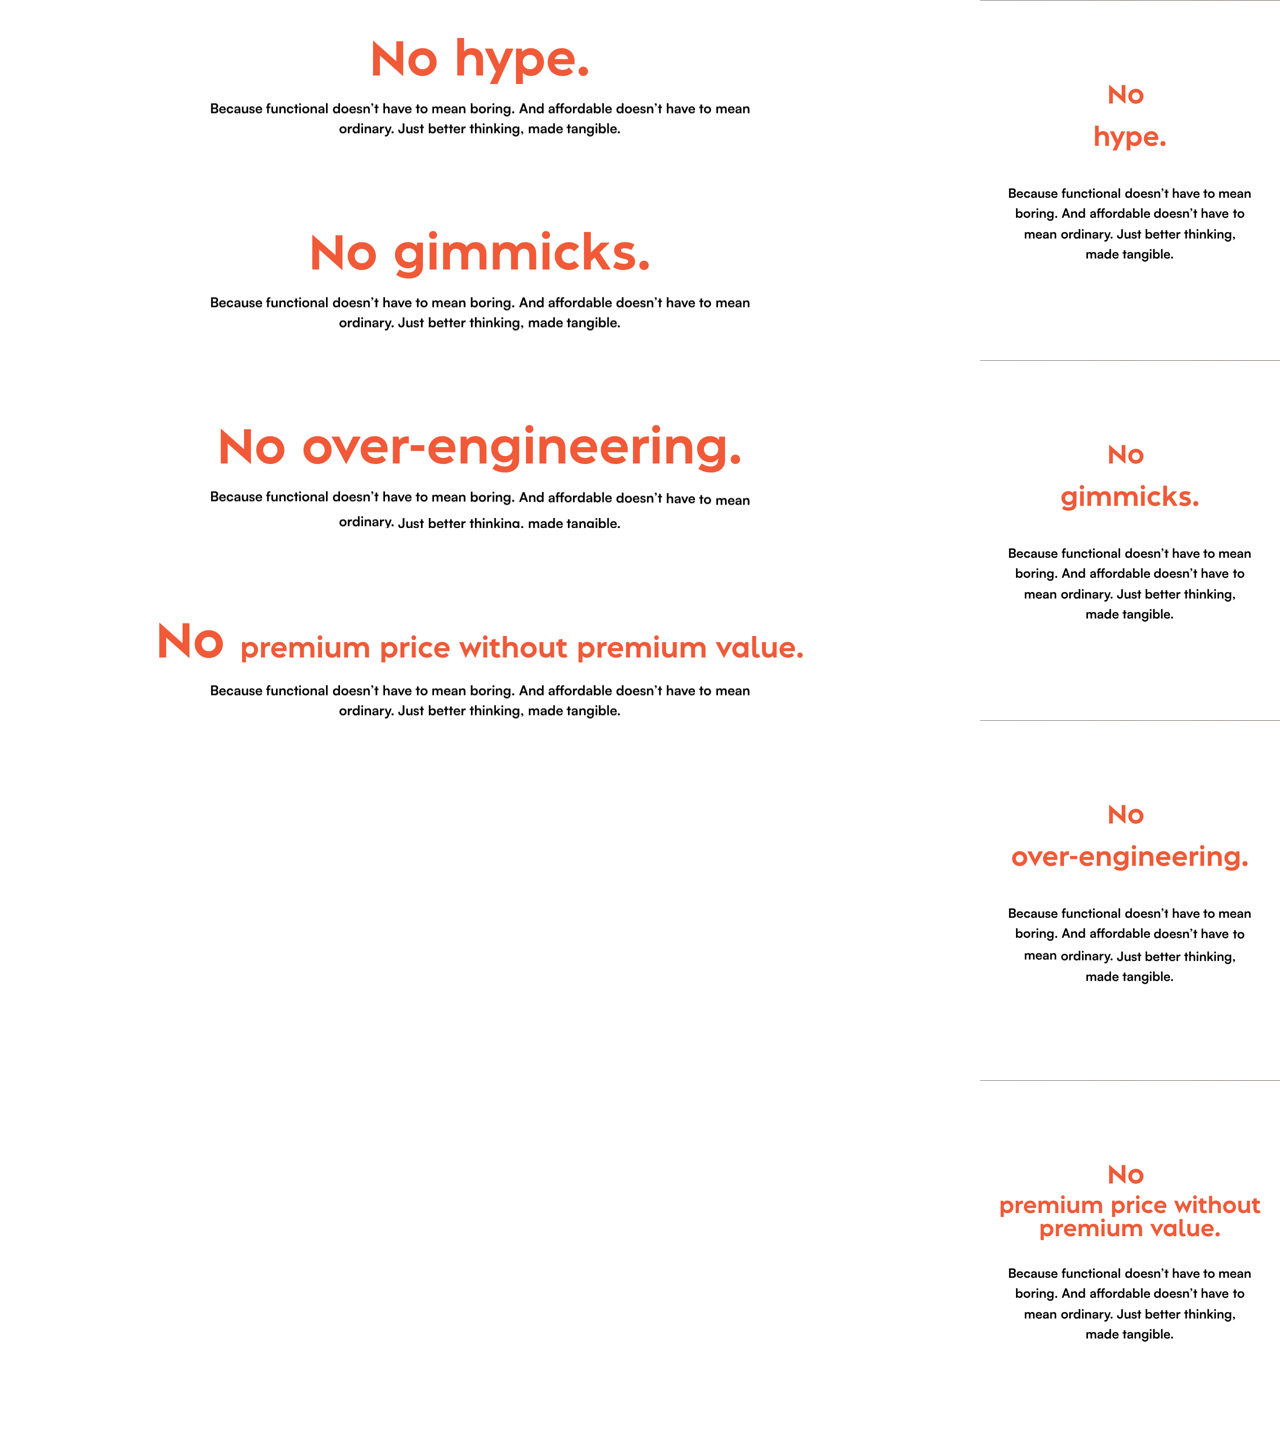
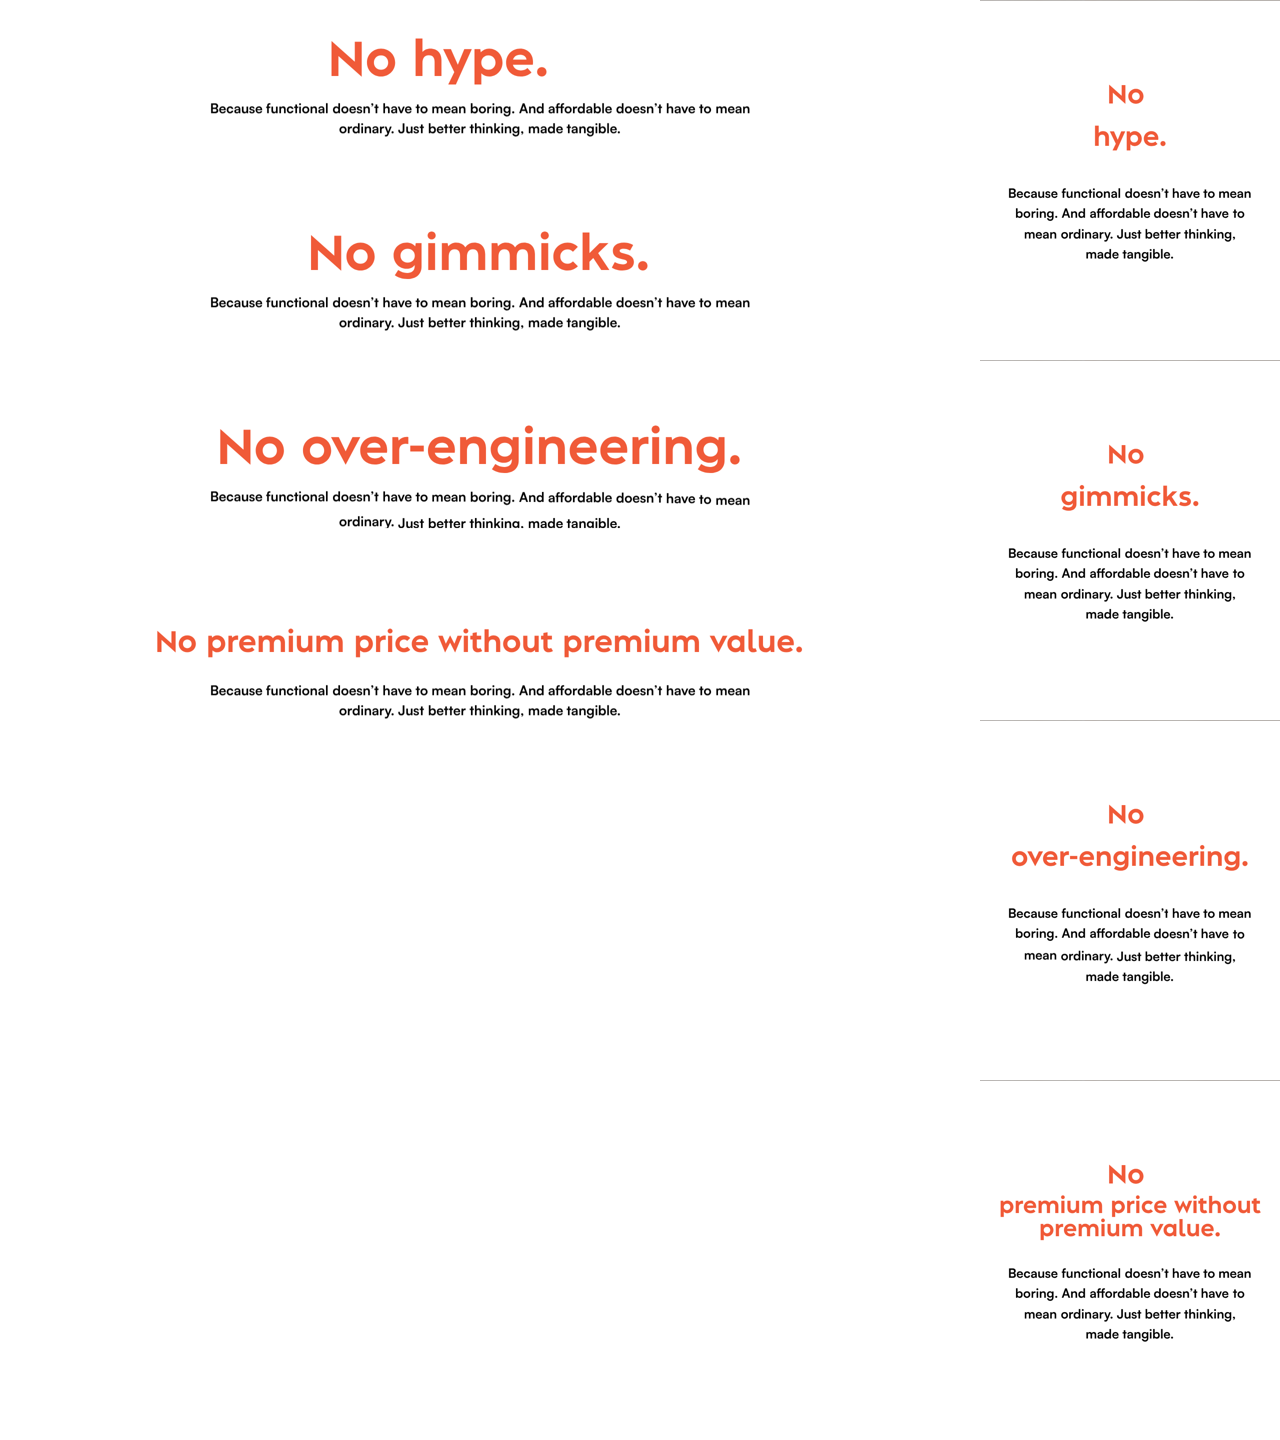
Rotating heading: No and phrase always the same size; the whole line scales smoothly for the long phrase
Claude-Session: https://claude.ai/code/session_011C48dJNBYDtDBuq3rLm7W8

diff --git a/kress-kleen-polish/kk-polish.js b/kress-kleen-polish/kk-polish.js
@@ -159,13 +159,32 @@
         var i = 2;   // start on "over-engineering"
         // each phrase gets the width it needs; a phrase too long for the line is shrunk to fit
         var narrow = window.matchMedia('(max-width: 767px)');
+        var base = 0;
+        // desktop/tablet: "No" and the phrase are always the same size; a phrase too long for the line
+        // scales the whole line down (smoothly), the line height stays fixed so nothing below moves
+        function apply(n) {
+            var it = items[n];
+            if (narrow.matches || !base) { h.style.removeProperty('font-size'); rot.style.width = ''; return; }
+            h.style.setProperty('font-size', (base * it.__k).toFixed(2) + 'px', 'important');
+            rot.style.width = (it.__em * 1.03).toFixed(4) + 'em';
+        }
+        // once the size change has finished, fit the box to the phrase's real width
+        function settle() {
+            if (narrow.matches || !base) { return; }
+            var t = items[i].__t;
+            rot.style.width = Math.ceil(t.getBoundingClientRect().width + 2) + 'px';
+        }
+        h.addEventListener('transitionend', function (e) { if (e.target === h && e.propertyName === 'font-size') { settle(); } });
         function fit() {
+            h.style.removeProperty('font-size');
+            h.style.removeProperty('height');
+            h.style.removeProperty('line-height');
+            items.forEach(function (it) { it.__t.style.fontSize = ''; });
             if (narrow.matches) {   // phones: stacked; a phrase that needs more than two lines is shrunk a little
+                base = 0;
                 rot.style.width = '';
                 items.forEach(function (it) {
-                    it.__w = 0;
                     var k = 100;
-                    it.__t.style.fontSize = '';
                     while (it.__t.offsetHeight > it.clientHeight + 1 && k > 55) {
                         k -= 5;
                         it.__t.style.fontSize = k + '%';
@@ -173,15 +192,16 @@
                 });
                 return;
             }
-            var avail = h.clientWidth - no.offsetWidth - 4;
+            base = parseFloat(getComputedStyle(h).fontSize) || 0;
+            var noW = no.offsetWidth, room = h.clientWidth - 4;
             items.forEach(function (it) {
-                it.__t.style.fontSize = '';
                 var w = it.__t.offsetWidth;
-                var k = w > avail ? avail / w : 1;
-                it.__t.style.fontSize = k < 1 ? (k * 100).toFixed(2) + '%' : '';
-                it.__w = Math.ceil(Math.min(w, avail));
+                it.__em = w / base;
+                it.__k = Math.min(1, room / (noW + w));
             });
-            rot.style.width = items[i].__w ? items[i].__w + 'px' : '';
+            h.style.setProperty('height', (base * 1.15).toFixed(1) + 'px', 'important');
+            h.style.setProperty('line-height', (base * 1.15).toFixed(1) + 'px', 'important');
+            apply(i);
         }
         function show(n, first) {
             items.forEach(function (it, k) {
@@ -190,7 +210,8 @@
                 if (k !== n && k !== i) { it.classList.remove('is-leaving'); }
             });
             i = n;
-            rot.style.width = items[n].__w ? items[n].__w + 'px' : '';
+            apply(n);
+            setTimeout(settle, 760);
         }
         fit();
         show(i, true);

diff --git a/kress-kleen-polish/kk-polish.css b/kress-kleen-polish/kk-polish.css
@@ -1159,3 +1159,12 @@ body .elementor-153 .elementor-element.elementor-element-fb87731 .elementor-head
 }
 .kp-rot__txt { display: inline-block; white-space: inherit; }
 @media (max-width: 767px) { .kp-rot__txt { display: block; } }
+
+/* rotating heading: "No" and the phrase scale together, vertically centred in a fixed-height line */
+@media (min-width: 768px) {
+  body .elementor-153 .elementor-element.elementor-element-fb87731 .elementor-heading-title.kp-rot-ready { transition: font-size 0.7s cubic-bezier(0.65, 0, 0.35, 1); overflow: visible; }
+  .kp-rot-ready .kp-no, .kp-rot-ready .kp-rot { vertical-align: middle; }
+}
+@media (prefers-reduced-motion: reduce) {
+  body .elementor-153 .elementor-element.elementor-element-fb87731 .elementor-heading-title.kp-rot-ready { transition: none; }
+}

diff --git a/kress-kleen-polish/kk-polish-snippet.php b/kress-kleen-polish/kk-polish-snippet.php
@@ -1182,6 +1182,15 @@ body .elementor-153 .elementor-element.elementor-element-fb87731 .elementor-head
 }
 .kp-rot__txt { display: inline-block; white-space: inherit; }
 @media (max-width: 767px) { .kp-rot__txt { display: block; } }
+
+/* rotating heading: "No" and the phrase scale together, vertically centred in a fixed-height line */
+@media (min-width: 768px) {
+  body .elementor-153 .elementor-element.elementor-element-fb87731 .elementor-heading-title.kp-rot-ready { transition: font-size 0.7s cubic-bezier(0.65, 0, 0.35, 1); overflow: visible; }
+  .kp-rot-ready .kp-no, .kp-rot-ready .kp-rot { vertical-align: middle; }
+}
+@media (prefers-reduced-motion: reduce) {
+  body .elementor-153 .elementor-element.elementor-element-fb87731 .elementor-heading-title.kp-rot-ready { transition: none; }
+}
 </style>
     <?php
 }
@@ -1354,13 +1363,32 @@ function kk_polish_js() {
         var i = 2;   // start on "over-engineering"
         // each phrase gets the width it needs; a phrase too long for the line is shrunk to fit
         var narrow = window.matchMedia('(max-width: 767px)');
+        var base = 0;
+        // desktop/tablet: "No" and the phrase are always the same size; a phrase too long for the line
+        // scales the whole line down (smoothly), the line height stays fixed so nothing below moves
+        function apply(n) {
+            var it = items[n];
+            if (narrow.matches || !base) { h.style.removeProperty('font-size'); rot.style.width = ''; return; }
+            h.style.setProperty('font-size', (base * it.__k).toFixed(2) + 'px', 'important');
+            rot.style.width = (it.__em * 1.03).toFixed(4) + 'em';
+        }
+        // once the size change has finished, fit the box to the phrase's real width
+        function settle() {
+            if (narrow.matches || !base) { return; }
+            var t = items[i].__t;
+            rot.style.width = Math.ceil(t.getBoundingClientRect().width + 2) + 'px';
+        }
+        h.addEventListener('transitionend', function (e) { if (e.target === h && e.propertyName === 'font-size') { settle(); } });
         function fit() {
+            h.style.removeProperty('font-size');
+            h.style.removeProperty('height');
+            h.style.removeProperty('line-height');
+            items.forEach(function (it) { it.__t.style.fontSize = ''; });
             if (narrow.matches) {   // phones: stacked; a phrase that needs more than two lines is shrunk a little
+                base = 0;
                 rot.style.width = '';
                 items.forEach(function (it) {
-                    it.__w = 0;
                     var k = 100;
-                    it.__t.style.fontSize = '';
                     while (it.__t.offsetHeight > it.clientHeight + 1 && k > 55) {
                         k -= 5;
                         it.__t.style.fontSize = k + '%';
@@ -1368,15 +1396,16 @@ function kk_polish_js() {
                 });
                 return;
             }
-            var avail = h.clientWidth - no.offsetWidth - 4;
+            base = parseFloat(getComputedStyle(h).fontSize) || 0;
+            var noW = no.offsetWidth, room = h.clientWidth - 4;
             items.forEach(function (it) {
-                it.__t.style.fontSize = '';
                 var w = it.__t.offsetWidth;
-                var k = w > avail ? avail / w : 1;
-                it.__t.style.fontSize = k < 1 ? (k * 100).toFixed(2) + '%' : '';
-                it.__w = Math.ceil(Math.min(w, avail));
+                it.__em = w / base;
+                it.__k = Math.min(1, room / (noW + w));
             });
-            rot.style.width = items[i].__w ? items[i].__w + 'px' : '';
+            h.style.setProperty('height', (base * 1.15).toFixed(1) + 'px', 'important');
+            h.style.setProperty('line-height', (base * 1.15).toFixed(1) + 'px', 'important');
+            apply(i);
         }
         function show(n, first) {
             items.forEach(function (it, k) {
@@ -1385,7 +1414,8 @@ function kk_polish_js() {
                 if (k !== n && k !== i) { it.classList.remove('is-leaving'); }
             });
             i = n;
-            rot.style.width = items[n].__w ? items[n].__w + 'px' : '';
+            apply(n);
+            setTimeout(settle, 760);
         }
         fit();
         show(i, true);
